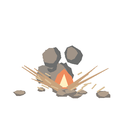
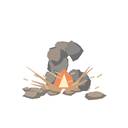
Lock weapon blast motion across cel exposures

Changed region(s): [[0.0938, 0.3125, 0.875, 0.7812]]

diff --git a/tools/build_weapon_explosion_cels_v2.py b/tools/build_weapon_explosion_cels_v2.py
@@ -136,7 +136,10 @@ def missile_frame(index: int, count: int = 11) -> Image.Image:
 def rocket_frame(index: int, count: int = 8) -> Image.Image:
     size = 128
     t = index / (count - 1)
-    rng = random.Random(18400 + index)
+    # Keep the authored ejecta, debris and smoke identities locked across the
+    # exposure sequence. Changing the random layout per frame makes a burst
+    # boil like procedural particles instead of expanding as held cel shapes.
+    rng = random.Random(18400)
     image, draw = canvas(size)
     cx, ground = 64.0, 91.0
     growth = math.sin(min(1.0, t * 1.15) * math.pi * 0.58)
@@ -186,7 +189,9 @@ def rocket_frame(index: int, count: int = 8) -> Image.Image:
 def cannon_frame(index: int, count: int = 6) -> Image.Image:
     size = 64
     t = index / (count - 1)
-    rng = random.Random(29400 + index)
+    # A cannon strike is one directional event: its hot-metal rays travel and
+    # fade, but must not teleport to unrelated bearings on every exposure.
+    rng = random.Random(29400)
     image, draw = canvas(size)
     cx, cy = 32.0, 31.0
     fade = 1.0 - t
@@ -241,13 +246,13 @@ def main():
     review.save(REVIEW, optimize=True)
     manifest = {
         "asset_family": "hypersonic_weapon_explosion_cels_v3",
-        "method": "deterministic offline cel authoring with ragged hand-cut silhouettes and retained transparent canvases",
+        "method": "deterministic offline cel authoring with temporally locked ragged silhouettes and retained transparent canvases",
         "families": {
             "missile": {"frames": 11, "size": [128,128], "motion": "flash-pressure-fireball-smoke-fragment"},
             "rocket": {"frames": 8, "size": [128,128], "motion": "ground-coupled-dirt-flame-column-fragment"},
             "cannon": {"frames": 6, "size": [64,64], "motion": "directional-hot-metal-spall"},
         },
-        "rules": ["No full-screen bloom", "No circular particle rosette", "Missile pressure fronts use broken cool condensation contours", "Smoke and debris outlive the hot core", "Ground bursts remain vertically biased"],
+        "rules": ["No full-screen bloom", "No circular particle rosette", "Missile pressure fronts use broken cool condensation contours", "Smoke and debris outlive the hot core", "Ground bursts remain vertically biased", "Material lobes and fragment bearings remain registered between exposures"],
     }
     SOURCE.mkdir(parents=True, exist_ok=True)
     (SOURCE / "manifest.json").write_text(json.dumps(manifest, indent=2) + "\n", encoding="utf-8")
